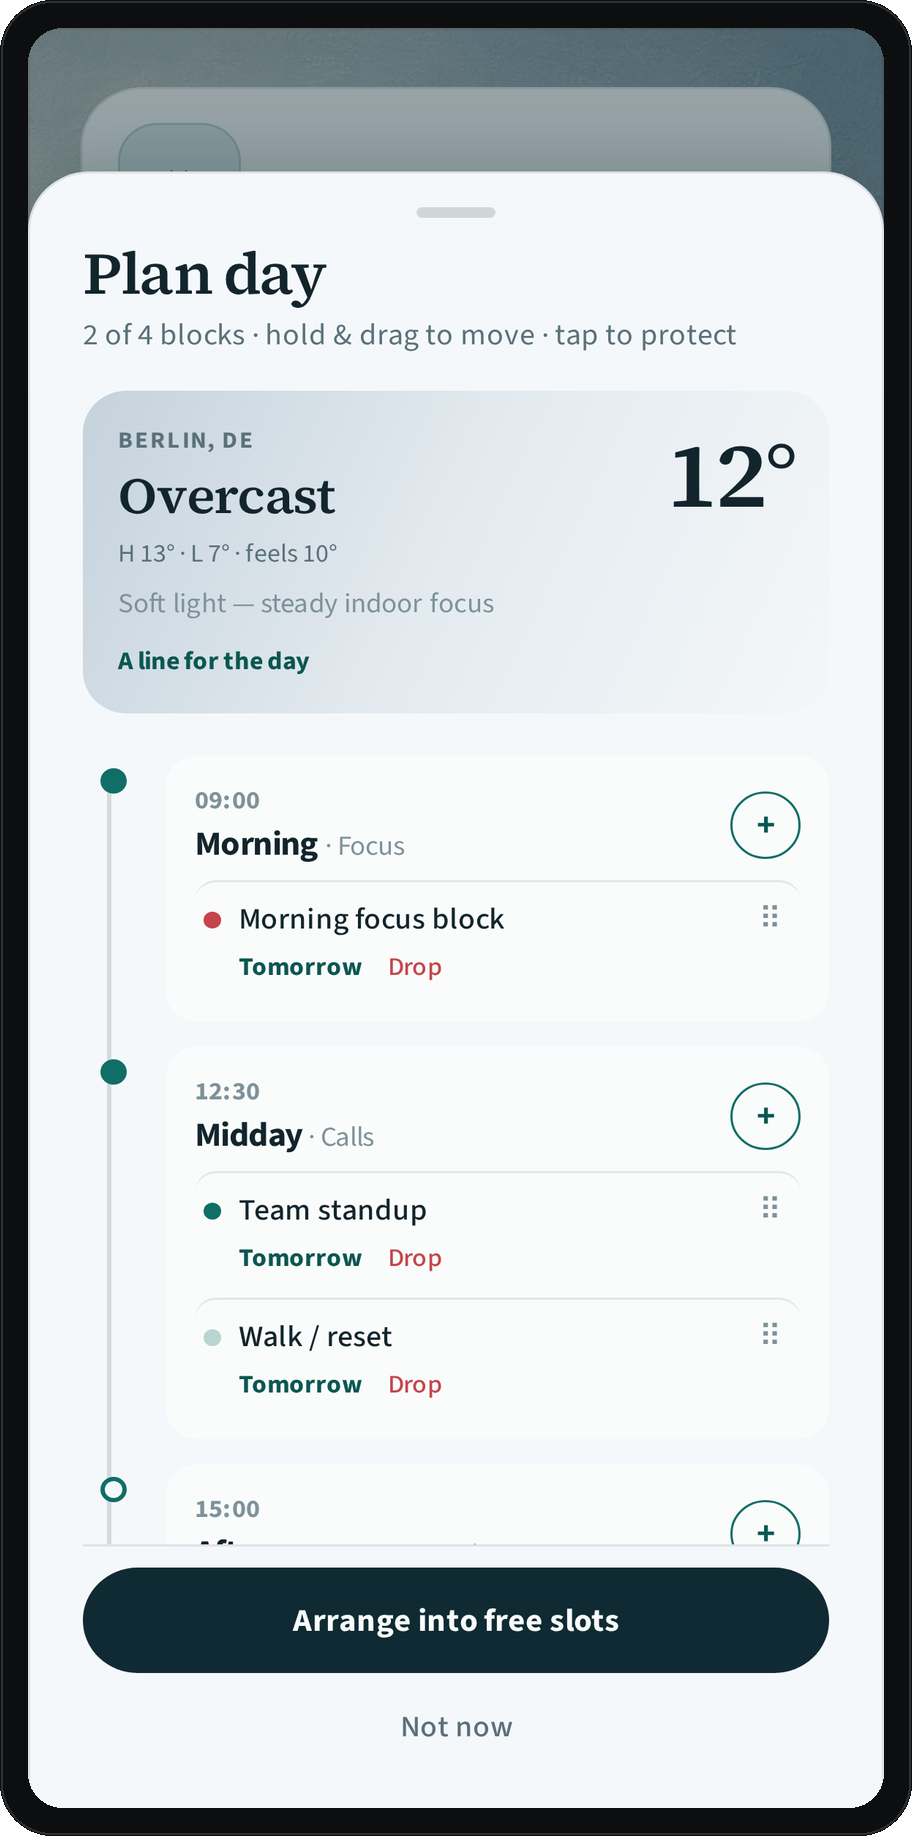
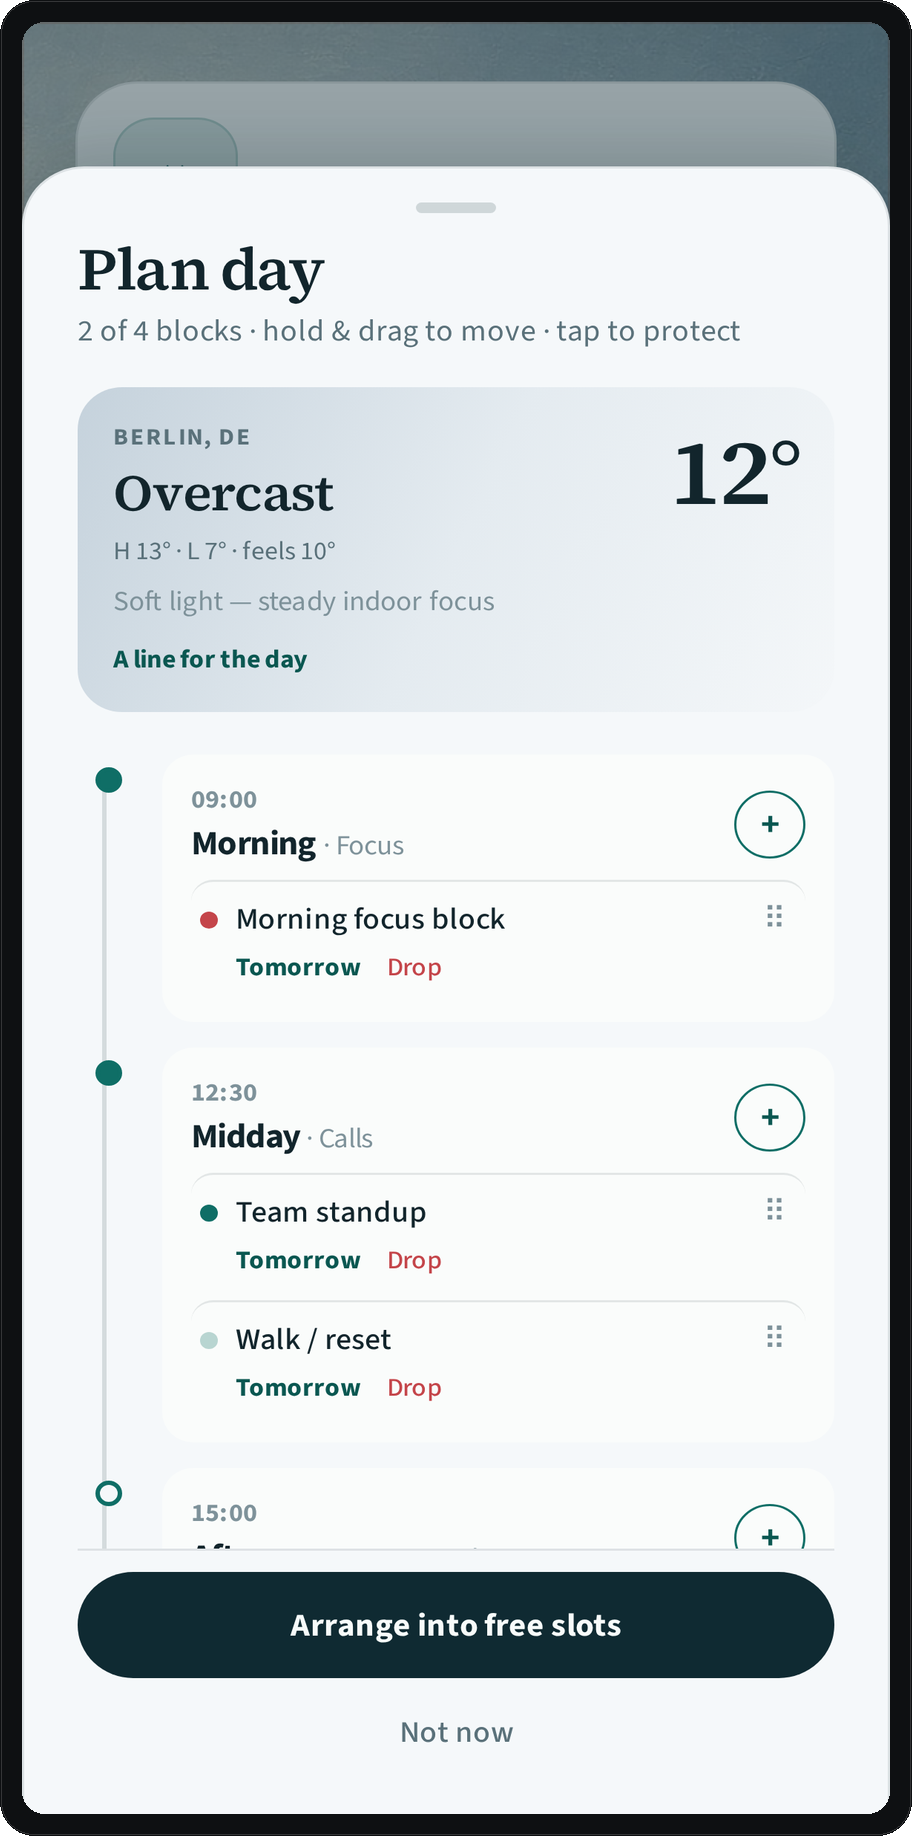
Sharpen landing phone silhouettes (#215)
Cut frame corner radius roughly in half, drop CSS re-rounding,
and enlarge orbit cards so devices read as handsets not capsules.

diff --git a/nova/public-site/index.html b/nova/public-site/index.html
@@ -10,7 +10,7 @@
     />
     <meta property="og:title" content="Wahrly" />
     <meta property="og:description" content="Your life, clearly." />
-    <meta property="og:image" content="./media/devices/home.png?v=phone3" />
+    <meta property="og:image" content="./media/devices/home.png?v=sharp34" />
     <link rel="icon" href="./media/icon.png" />
     <link rel="preconnect" href="https://fonts.googleapis.com" />
     <link rel="preconnect" href="https://fonts.gstatic.com" crossorigin />
@@ -18,7 +18,7 @@
       href="https://fonts.googleapis.com/css2?family=Fraunces:opsz,wght@9..144,480;9..144,600&family=Outfit:wght@300;400;500;600&display=swap"
       rel="stylesheet"
     />
-    <link rel="stylesheet" href="./styles.css?v=phone-radius-v3" />
+    <link rel="stylesheet" href="./styles.css?v=sharp34" />
   </head>
   <body>
     <div class="grain" aria-hidden="true"></div>
@@ -62,7 +62,7 @@
               <img
                 class="cine-shot is-active"
                 data-shot="0"
-                src="./media/devices/home.png?v=phone3"
+                src="./media/devices/home.png?v=sharp34"
                 width="912"
                 height="1836"
                 alt=""
@@ -70,7 +70,7 @@
               <img
                 class="cine-shot"
                 data-shot="1"
-                src="./media/devices/tasks.png?v=phone3"
+                src="./media/devices/tasks.png?v=sharp34"
                 width="912"
                 height="1836"
                 alt=""
@@ -78,7 +78,7 @@
               <img
                 class="cine-shot"
                 data-shot="2"
-                src="./media/devices/chat.png?v=phone3"
+                src="./media/devices/chat.png?v=sharp34"
                 width="912"
                 height="1836"
                 alt=""
@@ -86,7 +86,7 @@
               <img
                 class="cine-shot"
                 data-shot="3"
-                src="./media/devices/dates.png?v=phone3"
+                src="./media/devices/dates.png?v=sharp34"
                 width="912"
                 height="1836"
                 alt=""
@@ -94,7 +94,7 @@
               <img
                 class="cine-shot"
                 data-shot="4"
-                src="./media/devices/bills.png?v=phone3"
+                src="./media/devices/bills.png?v=sharp34"
                 width="912"
                 height="1836"
                 alt=""
@@ -155,7 +155,7 @@
             <div class="converge-phone" data-cphone>
               <div class="orbit-frame">
                 <img
-                  src="./media/devices/home.png?v=phone3"
+                  src="./media/devices/home.png?v=sharp34"
                   width="912"
                   height="1836"
                   alt="Wahrly gathers your day"
@@ -183,25 +183,25 @@
           <div class="orbit-track" data-orbit>
             <figure class="orbit-card" data-orbit-card>
               <div class="orbit-frame">
-                <img src="./media/devices/home.png?v=phone3" width="912" height="1836" alt="Home" />
+                <img src="./media/devices/home.png?v=sharp34" width="912" height="1836" alt="Home" />
               </div>
               <figcaption>Home</figcaption>
             </figure>
             <figure class="orbit-card" data-orbit-card>
               <div class="orbit-frame">
-                <img src="./media/devices/tasks.png?v=phone3" width="912" height="1836" alt="Tasks" />
+                <img src="./media/devices/tasks.png?v=sharp34" width="912" height="1836" alt="Tasks" />
               </div>
               <figcaption>Tasks</figcaption>
             </figure>
             <figure class="orbit-card" data-orbit-card>
               <div class="orbit-frame">
-                <img src="./media/devices/chat.png?v=phone3" width="912" height="1836" alt="Chat" />
+                <img src="./media/devices/chat.png?v=sharp34" width="912" height="1836" alt="Chat" />
               </div>
               <figcaption>Chat</figcaption>
             </figure>
             <figure class="orbit-card" data-orbit-card>
               <div class="orbit-frame">
-                <img src="./media/devices/dates.png?v=phone3" width="912" height="1836" alt="Dates" />
+                <img src="./media/devices/dates.png?v=sharp34" width="912" height="1836" alt="Dates" />
               </div>
               <figcaption>Dates</figcaption>
             </figure>
@@ -216,55 +216,55 @@
           <div class="orbit-track" data-orbit>
             <figure class="orbit-card" data-orbit-card>
               <div class="orbit-frame">
-                <img src="./media/devices/plan.png?v=phone3" width="912" height="1836" alt="Plan day" />
+                <img src="./media/devices/plan.png?v=sharp34" width="912" height="1836" alt="Plan day" />
               </div>
               <figcaption>Plan day</figcaption>
             </figure>
             <figure class="orbit-card" data-orbit-card>
               <div class="orbit-frame">
-                <img src="./media/devices/bills.png?v=phone3" width="912" height="1836" alt="Bills" />
+                <img src="./media/devices/bills.png?v=sharp34" width="912" height="1836" alt="Bills" />
               </div>
               <figcaption>Bills</figcaption>
             </figure>
             <figure class="orbit-card" data-orbit-card>
               <div class="orbit-frame">
-                <img src="./media/devices/shopping.png?v=phone3" width="912" height="1836" alt="Shopping" />
+                <img src="./media/devices/shopping.png?v=sharp34" width="912" height="1836" alt="Shopping" />
               </div>
               <figcaption>Shopping</figcaption>
             </figure>
             <figure class="orbit-card" data-orbit-card>
               <div class="orbit-frame">
-                <img src="./media/devices/morning.png?v=phone3" width="912" height="1836" alt="Morning brief" />
+                <img src="./media/devices/morning.png?v=sharp34" width="912" height="1836" alt="Morning brief" />
               </div>
               <figcaption>Morning</figcaption>
             </figure>
             <figure class="orbit-card" data-orbit-card>
               <div class="orbit-frame">
-                <img src="./media/devices/evening.png?v=phone3" width="912" height="1836" alt="Evening review" />
+                <img src="./media/devices/evening.png?v=sharp34" width="912" height="1836" alt="Evening review" />
               </div>
               <figcaption>Evening</figcaption>
             </figure>
             <figure class="orbit-card" data-orbit-card>
               <div class="orbit-frame">
-                <img src="./media/devices/life.png?v=phone3" width="912" height="1836" alt="Life" />
+                <img src="./media/devices/life.png?v=sharp34" width="912" height="1836" alt="Life" />
               </div>
               <figcaption>Life</figcaption>
             </figure>
             <figure class="orbit-card" data-orbit-card>
               <div class="orbit-frame">
-                <img src="./media/devices/news.png?v=phone3" width="912" height="1836" alt="News" />
+                <img src="./media/devices/news.png?v=sharp34" width="912" height="1836" alt="News" />
               </div>
               <figcaption>News</figcaption>
             </figure>
             <figure class="orbit-card" data-orbit-card>
               <div class="orbit-frame">
-                <img src="./media/devices/invest.png?v=phone3" width="912" height="1836" alt="Invest" />
+                <img src="./media/devices/invest.png?v=sharp34" width="912" height="1836" alt="Invest" />
               </div>
               <figcaption>Invest</figcaption>
             </figure>
             <figure class="orbit-card" data-orbit-card>
               <div class="orbit-frame">
-                <img src="./media/devices/settings.png?v=phone3" width="912" height="1836" alt="Wahrly Pro" />
+                <img src="./media/devices/settings.png?v=sharp34" width="912" height="1836" alt="Wahrly Pro" />
               </div>
               <figcaption>Pro</figcaption>
             </figure>
@@ -300,7 +300,7 @@
           <div class="strip-visual reveal">
             <div class="strip-phone">
               <div class="orbit-frame">
-                <img src="./media/devices/home.png?v=phone3" width="912" height="1836" alt="Wahrly Home" />
+                <img src="./media/devices/home.png?v=sharp34" width="912" height="1836" alt="Wahrly Home" />
               </div>
             </div>
           </div>
@@ -330,6 +330,6 @@
       </div>
     </footer>
 
-    <script src="./motion.js?v=phone-radius-v3" defer></script>
+    <script src="./motion.js?v=sharp34" defer></script>
   </body>
 </html>

diff --git a/nova/public-site/styles.css b/nova/public-site/styles.css
@@ -225,8 +225,8 @@ a {
   height: 0;
   padding-bottom: 201.315789%; /* 1836 / 912 */
   overflow: hidden;
-  /* Framed PNG ~52px @ 912 → ~23 @ 400 — keep CSS at/under that */
-  border-radius: 22px;
+  /* Shape comes from the PNG alpha — CSS must not re-round into a capsule */
+  border-radius: 0;
   background: transparent;
 }
 
@@ -724,8 +724,8 @@ a {
   height: 0;
   padding-bottom: 201.315789%; /* 1836 / 912 — locks ratio on iOS */
   overflow: hidden;
-  /* ~52px @ 912 → ~10 @ 168 — avoid capsule clip on small orbit cards */
-  border-radius: 10px;
+  /* PNG owns the silhouette; zero CSS radius so small cards stay rectangular */
+  border-radius: 0;
   background: transparent;
 }
 
@@ -1201,7 +1201,7 @@ a {
   }
 
   .orbit-card {
-    width: 168px;
+    width: 200px;
     opacity: 1;
   }
 
